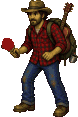
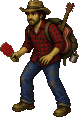
Co-op: druhy spravce je videt pri praci a rybareni; v Lesne se vidi oba
Kdyz druhy drzi R u lampy, rezi spadlou vetev, sbira odpadky nebo chyta
ryby na druhem brehu, jeho postava to dela taky (stav spravce "act":
fix, saw, bag, fish; pozy se ted generuji). Tramp s kopem a palkou
zrnity jako original. coop_check: druhy po probuzeni vyleze ze stanu,
v Lesne se musi videt oba.

diff --git a/godot/tools/coop_check.py b/godot/tools/coop_check.py
@@ -289,6 +289,8 @@ def main():
     if None in (hw, hr2, cr2, ht, ct):
         failures.append("missing bus fingerprints")
     else:
+        if not ht["other_visible"] or not ct["other_visible"]:
+            failures.append("in Lesna they do not see each other (host %s, other %s)" % (ht["other_visible"], ct["other_visible"]))
         if hw["bus_state"] != "held":
             failures.append("the bus did not wait for the other warden buying a ticket (%s)" % hw["bus_state"])
         if hr2["bus_state"] not in ("riding", "stopping", "done") or cr2["bus_state"] not in ("riding", "stopping", "done"):
